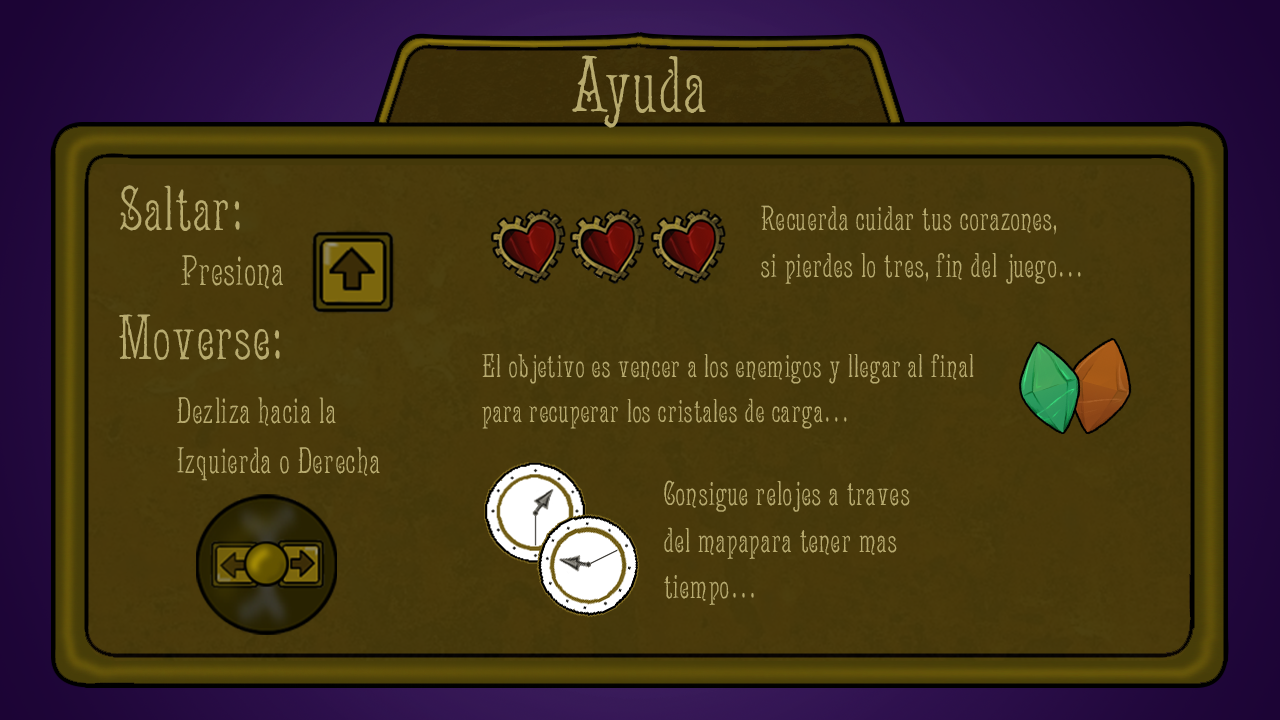
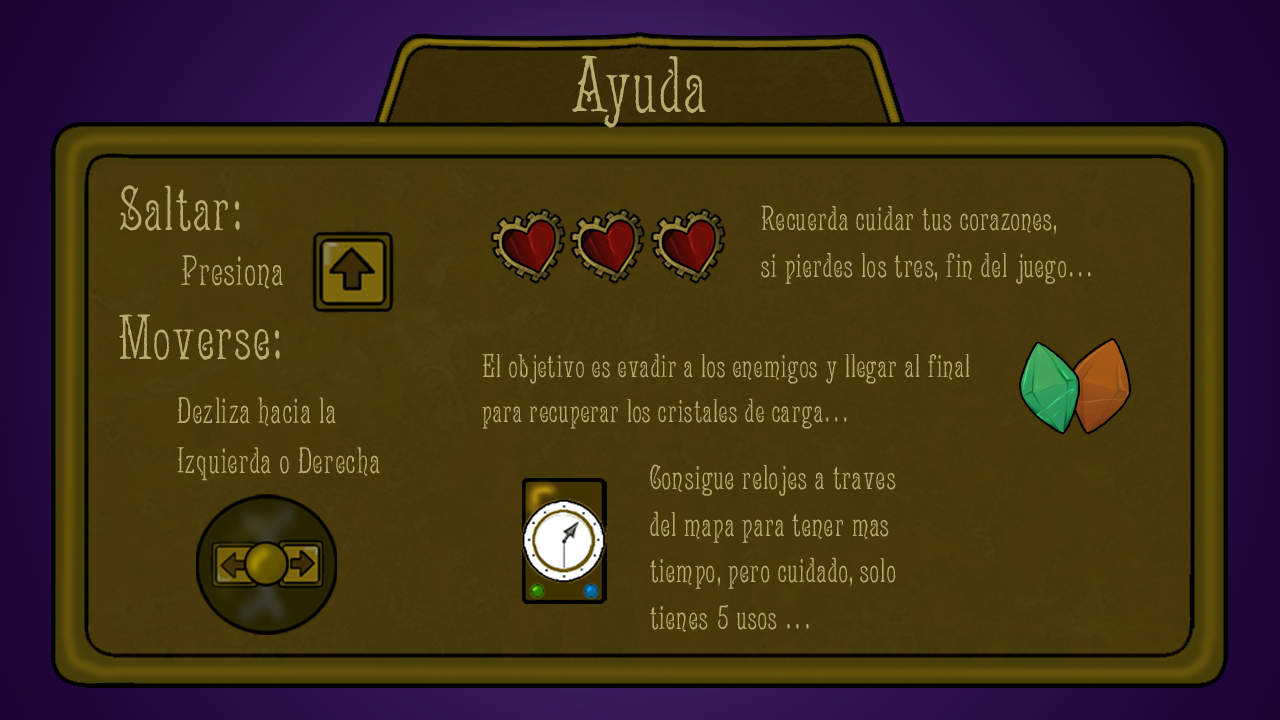
Actualizacion vida

Changed region(s): [[0.375, 0.6417, 0.7188, 0.8861], [0.4688, 0.4889, 0.7812, 0.55], [0.6875, 0.3361, 0.8438, 0.3972]]

diff --git a/core/src/mx/itesm/fjzt/mapa1.java b/core/src/mx/itesm/fjzt/mapa1.java
@@ -3,11 +3,9 @@ package mx.itesm.fjzt;
 import com.badlogic.gdx.Gdx;
 import com.badlogic.gdx.assets.AssetManager;
 import com.badlogic.gdx.audio.Music;
-import com.badlogic.gdx.audio.Sound;
 import com.badlogic.gdx.graphics.OrthographicCamera;
 import com.badlogic.gdx.graphics.Pixmap;
 import com.badlogic.gdx.graphics.Texture;
-import com.badlogic.gdx.graphics.TextureData;
 import com.badlogic.gdx.graphics.g2d.Sprite;
 import com.badlogic.gdx.graphics.g2d.SpriteBatch;
 import com.badlogic.gdx.graphics.g2d.TextureRegion;
@@ -19,15 +17,12 @@ import com.badlogic.gdx.physics.box2d.Body;
 import com.badlogic.gdx.physics.box2d.BodyDef;
 import com.badlogic.gdx.physics.box2d.Box2D;
 import com.badlogic.gdx.physics.box2d.Box2DDebugRenderer;
-import com.badlogic.gdx.physics.box2d.Fixture;
 import com.badlogic.gdx.physics.box2d.FixtureDef;
 import com.badlogic.gdx.physics.box2d.PolygonShape;
 import com.badlogic.gdx.physics.box2d.World;
 import com.badlogic.gdx.scenes.scene2d.Actor;
 import com.badlogic.gdx.scenes.scene2d.InputEvent;
 import com.badlogic.gdx.scenes.scene2d.Stage;
-import com.badlogic.gdx.scenes.scene2d.actions.Actions;
-import com.badlogic.gdx.scenes.scene2d.actions.SequenceAction;
 import com.badlogic.gdx.scenes.scene2d.ui.Image;
 import com.badlogic.gdx.scenes.scene2d.ui.ImageButton;
 import com.badlogic.gdx.scenes.scene2d.ui.Skin;
@@ -37,8 +32,6 @@ import com.badlogic.gdx.scenes.scene2d.utils.ClickListener;
 import com.badlogic.gdx.scenes.scene2d.utils.TextureRegionDrawable;
 import com.badlogic.gdx.utils.viewport.StretchViewport;
 import com.badlogic.gdx.utils.viewport.Viewport;
-
-import javax.xml.soap.Text;
 
 public class mapa1 extends Pantalla {
 
@@ -113,7 +106,7 @@ public class mapa1 extends Pantalla {
     private Texture vidaMenosTres;
 
     //Reloj
-    private reloj reloj;
+    private Reloj reloj;
     private enemigoLvl1 enemigoLvl1;
 
 
@@ -309,7 +302,7 @@ public class mapa1 extends Pantalla {
         ConvertidorMapa.crearCuerpos(mapa,mundo);
         //debug = new Box2DDebugRenderer(); //Esto solo se usa en desarrollo, muestra las cajas de colision
 
-        reloj = new reloj(mapa,mundo);
+        reloj = new Reloj(mapa,mundo);
         enemigoLvl1 = new enemigoLvl1(mapa,mundo);
 
     }
@@ -337,12 +330,8 @@ public class mapa1 extends Pantalla {
 
 
             batch.begin();
-            if(invunerabilidad > 0){
-                SequenceAction flicker = new SequenceAction(Actions.fadeOut(0.25f), Actions.fadeIn(0.25f));
-                silo.addAction(Actions.repeat(6, flicker));
-            }else{
-                silo.dibujar(batch);
-            }
+            silo.dibujar(batch);
+
 
             if(invunerabilidad > 0){
                 invunerabilidad -= 1;
@@ -434,6 +423,17 @@ public class mapa1 extends Pantalla {
     @Override
     public void dispose() {
 
+
+    }
+
+    public void init(){
+        cargarMusicas();
+        vidaPersonaje = 3;
+        silo.setVida(vidaPersonaje);
+        configurarFisica();
+        InterfazJugador.tiempoMundo=100;
+        Reloj.usos = 5;
+
     }
 
     // La escena que se muestra cuando el juego se pausa
@@ -497,8 +497,9 @@ public class mapa1 extends Pantalla {
                 public void clicked(InputEvent event, float x, float y) {
                     // Regresa al menú
                     musicaFondo.stop();
-
-                    juego.setScreen(new mapa1(juego));
+                    init();
+                    Gdx.input.setInputProcessor(escenaHUD);
+                    estado= EstadoJuego.JUGANDO;
 
                 }
             });
@@ -515,7 +516,6 @@ public class mapa1 extends Pantalla {
                 @Override
                 public void clicked(InputEvent event, float x, float y) {
                     // return to the game
-                    cargarMapa();
                     Gdx.input.setInputProcessor(escenaHUD);
                     estado= EstadoJuego.JUGANDO;
                 }

diff --git a/core/src/mx/itesm/fjzt/checaColisiones.java b/core/src/mx/itesm/fjzt/checaColisiones.java
@@ -1,10 +1,5 @@
 package mx.itesm.fjzt;
 
-import com.badlogic.gdx.Gdx;
-import com.badlogic.gdx.InputAdapter;
-import com.badlogic.gdx.graphics.g2d.BitmapFont;
-import com.badlogic.gdx.graphics.g2d.GlyphLayout;
-import com.badlogic.gdx.graphics.g2d.SpriteBatch;
 import com.badlogic.gdx.physics.box2d.Contact;
 import com.badlogic.gdx.physics.box2d.ContactImpulse;
 import com.badlogic.gdx.physics.box2d.ContactListener;
@@ -54,38 +49,38 @@ class checaColisiones implements ContactListener {
                 break;
             case Pantalla.BIT_JUGADOR | Pantalla.BIT_OBJETOS:
                 if(fixture1.getFilterData().categoryBits == Pantalla.BIT_ENEMIGO){
-                    if(reloj.usos == 5){
+                    if(Reloj.usos == 5){
                         InterfazJugador.addTiempo(10);
-                        reloj.usos --;
-                    } else if(reloj.usos == 4) {
+                        Reloj.usos --;
+                    } else if(Reloj.usos == 4) {
                         InterfazJugador.addTiempo(10);
-                        reloj.usos--;
-                    }else if(reloj.usos == 3) {
+                        Reloj.usos--;
+                    }else if(Reloj.usos == 3) {
                         InterfazJugador.addTiempo(10);
-                        reloj.usos--;
-                    }else if(reloj.usos == 2) {
+                        Reloj.usos--;
+                    }else if(Reloj.usos == 2) {
                         InterfazJugador.addTiempo(10);
-                        reloj.usos--;
-                    }else if(reloj.usos == 1) {
+                        Reloj.usos--;
+                    }else if(Reloj.usos == 1) {
                         InterfazJugador.addTiempo(10);
-                        reloj.usos--;
+                        Reloj.usos--;
                     }
                 }else{
-                    if(reloj.usos == 5){
+                    if(Reloj.usos == 5){
                         InterfazJugador.addTiempo(10);
-                        reloj.usos --;
-                    } else if(reloj.usos == 4) {
+                        Reloj.usos --;
+                    } else if(Reloj.usos == 4) {
                         InterfazJugador.addTiempo(10);
-                        reloj.usos--;
-                    }else if(reloj.usos == 3) {
+                        Reloj.usos--;
+                    }else if(Reloj.usos == 3) {
                         InterfazJugador.addTiempo(10);
-                        reloj.usos--;
-                    }else if(reloj.usos == 2) {
+                        Reloj.usos--;
+                    }else if(Reloj.usos == 2) {
                         InterfazJugador.addTiempo(10);
-                        reloj.usos--;
-                    }else if(reloj.usos == 1) {
+                        Reloj.usos--;
+                    }else if(Reloj.usos == 1) {
                         InterfazJugador.addTiempo(10);
-                        reloj.usos--;
+                        Reloj.usos--;
                     }
                 }
                 break;

diff --git a/core/src/mx/itesm/fjzt/Reloj.java b/core/src/mx/itesm/fjzt/Reloj.java
@@ -15,7 +15,7 @@ import com.badlogic.gdx.physics.box2d.FixtureDef;
 import com.badlogic.gdx.physics.box2d.PolygonShape;
 import com.badlogic.gdx.physics.box2d.World;
 
-public class reloj {
+public class Reloj {
 
     protected World world;
     protected TiledMap map;
@@ -24,7 +24,7 @@ public class reloj {
 
     public static int usos = 5;
 
-    public reloj(TiledMap mapa, World mundo) {
+    public Reloj(TiledMap mapa, World mundo) {
 
         //Reloj
         BodyDef clock = new BodyDef();
